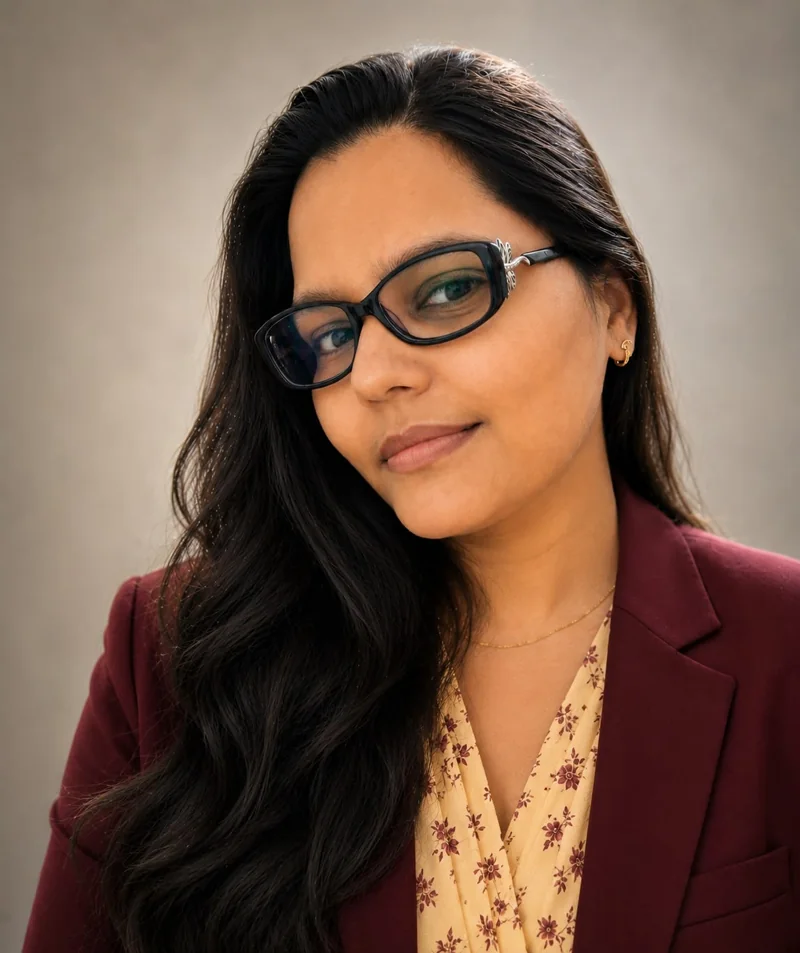
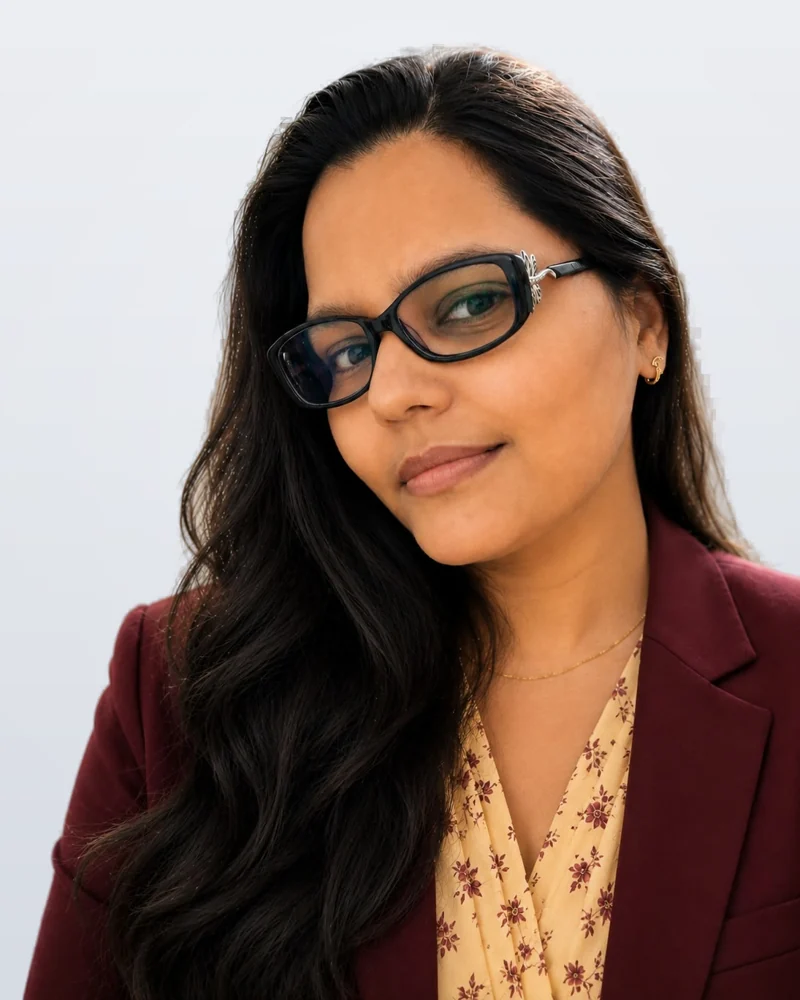
Uniform studio background for all director photos
Claude-Session: https://claude.ai/code/session_017oGPB4thtfnhSmdm7UecKW

diff --git a/index.html b/index.html
@@ -1222,7 +1222,7 @@ footer .ft-h{font-family:var(--f-display);color:var(--navy-800);font-size:14px;f
           <a class="ld-wa" href="https://wa.me/919909975844?text=Hi%20Devang%2C%20I%20came%20across%20your%20profile%20on%20the%20Centurion%20website%20and%20would%20like%20to%20connect." target="_blank" rel="noopener" aria-label="WhatsApp Devang"><svg viewBox="0 0 24 24" aria-hidden="true"><path d="M17.5 14.4c-.3-.1-1.8-.9-2-1-.3-.1-.5-.1-.7.1-.2.3-.8 1-.9 1.2-.2.2-.3.2-.6.1-.3-.1-1.3-.5-2.4-1.5-.9-.8-1.5-1.8-1.7-2.1-.2-.3 0-.5.1-.6l.4-.5c.2-.2.2-.3.3-.5.1-.2.1-.4 0-.5l-.9-2.2c-.2-.6-.5-.5-.7-.5h-.6c-.2 0-.5.1-.8.4-.3.3-1 1-1 2.5s1.1 2.9 1.2 3.1c.1.2 2.1 3.2 5.1 4.5.7.3 1.3.5 1.7.6.7.2 1.4.2 1.9.1.6-.1 1.8-.7 2-1.4.2-.7.2-1.3.2-1.4-.1-.1-.3-.2-.6-.3zM12 21.8c-1.8 0-3.5-.5-5-1.4l-.4-.2-3.7 1 1-3.6-.2-.4A9.8 9.8 0 1 1 12 21.8zM20.5 3.5A11.8 11.8 0 0 0 1.9 17.7L.2 24l6.4-1.7A11.8 11.8 0 0 0 24 12c0-3.2-1.2-6.1-3.5-8.5z"/></svg><span>Connect with Devang</span><svg class="ld-arr" viewBox="0 0 24 24" fill="none" stroke="currentColor" stroke-width="2" stroke-linecap="round" stroke-linejoin="round" aria-hidden="true"><path d="M5 12h14M13 6l6 6-6 6"/></svg></a>
         </article>
         <article class="ld-card rv">
-          <div class="ld-photo has-img"><img class="ld-img" data-photo="juhi" src="/assets/team/juhi.webp" width="800" height="953" alt="Juhi Bais, Centurion Strategic Ventures" loading="lazy"></div>
+          <div class="ld-photo has-img"><img class="ld-img" data-photo="juhi" src="/assets/team/juhi.webp" width="800" height="1000" alt="Juhi Bais, Centurion Strategic Ventures" loading="lazy"></div>
           <div class="ld-body">
             <h3>Juhi Bais</h3>
             <p class="ld-role">Director, Brand Communications &amp; People Strategy</p>
